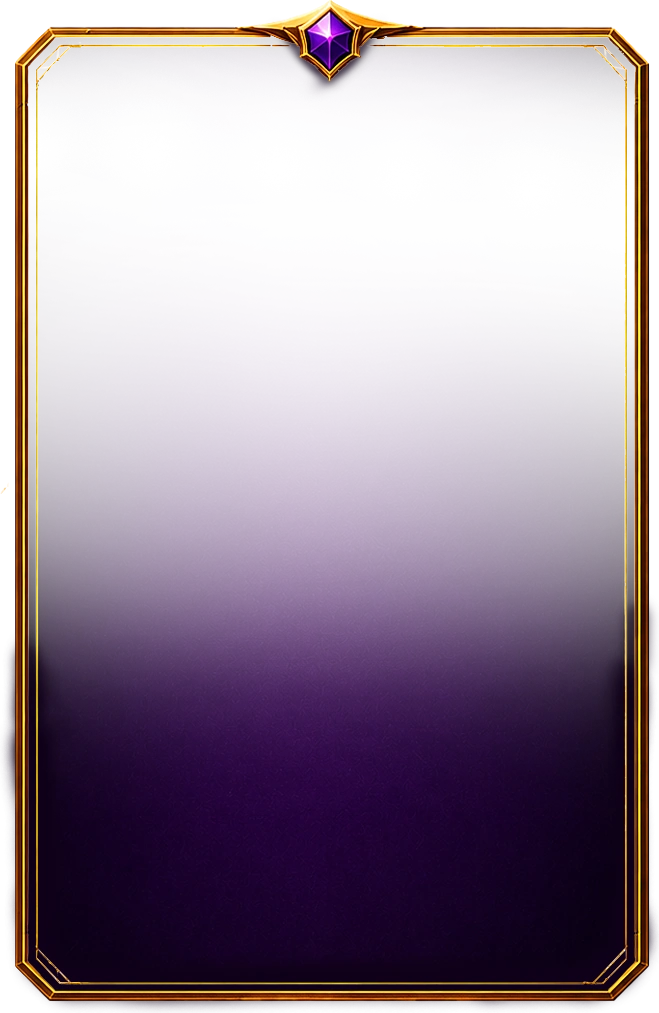
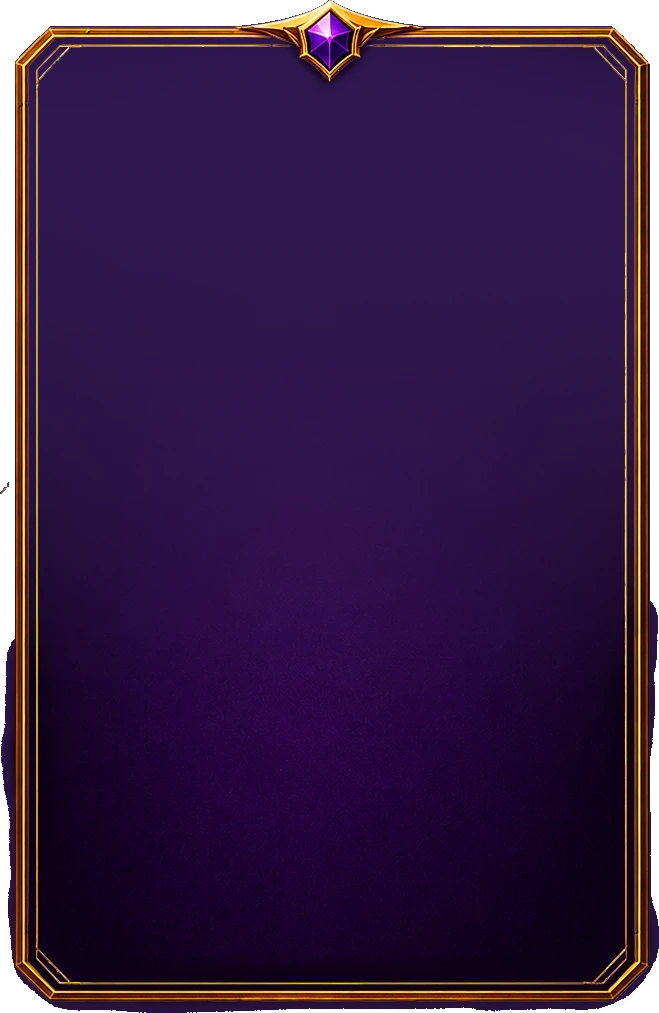
v2.121.1: de foto was weggevallen, de land-pil in neon, en de lege kaart weer gevuld
DE FOTO WAS BIJNA WEG. Ik knipte hem met de lijst-art als masker, en dat masker
gebruikt de ALFA van die art: binnenin is die 2 tot 30, dus de foto werd binnen
de kaart vrijwel volledig doorzichtig. Nu een clip-path met dezelfde afgeschuinde
hoeken; dat doet wat het masker moest doen zonder de foto weg te vegen.

DE LEGE KAART was een omtrek geworden. voorkant-leeg wees naar de nieuwe lijst,
en die is binnenin doorzichtig, dus een kaart zonder foto liet niets zien. Hij is
opnieuw gezet: hetzelfde paarse verloop binnen dezelfde lijst.

DE LAND-PIL is de neonpil van "Verlaat room" geworden, maar dan met de achthoek
en de paarse lijn, boven de kaart en op de voorkant.

En het bijzondere feit staat weer met zijn ZIN onder het label in plaats van
ernaast; alleen de labels van hoofdstad, werelddeel en taal lopen in een kolom.

diff --git a/frontend/src/screens/KaartDetail.tsx b/frontend/src/screens/KaartDetail.tsx
@@ -20,6 +20,7 @@ import { ArrowRight, Building2, Globe, MessageSquare, Share2, Star } from "lucid
 import type { LucideIcon } from "lucide-react";
 import { BredeKnop } from "../components/BredeKnop";
 import { GoudKader } from "../components/GoudKader";
+import { KADER_LIJN_PAARS, NeonKader } from "../components/ProfileHero";
 import { NeonText } from "../components/NeonText";
 import { useT } from "../i18n/i18n";
 import { sound } from "../sound/sound";
@@ -51,7 +52,6 @@ const FOTO = {
 
 /** De achthoek van de secties, als knipvorm. Een categorieplaat is te klein
  *  voor een SVG met eigen verlopen; de vorm alleen is hier genoeg. */
-const ACHTHOEK = "polygon(9px 0, calc(100% - 9px) 0, 100% 9px, 100% calc(100% - 9px), calc(100% - 9px) 100%, 9px 100%, 0 calc(100% - 9px), 0 9px)";
 const ACHTHOEK_KLEIN = "polygon(6px 0, calc(100% - 6px) 0, 100% 6px, 100% calc(100% - 6px), calc(100% - 6px) 100%, 6px 100%, 0 calc(100% - 6px), 0 6px)";
 
 /** De vakjes zijn DEZELFDE SECTIE als onderaan de pagina: GoudKader met zijn
@@ -182,19 +182,26 @@ export function KaartDetail({
     <div style={{ display: "flex", flexDirection: "column", gap: 12 }}>
       {/* ---- de categoriepil ---- */}
       <div style={{ display: "flex", justifyContent: "center" }}>
-        <span
-          style={{
-            display: "inline-flex", alignItems: "center", gap: 7,
-            padding: "6px 18px", clipPath: ACHTHOEK,
-            background: "linear-gradient(180deg, rgba(92,34,138,.9), rgba(52,16,88,.95))",
-            boxShadow: `inset 0 0 0 1.5px ${withAlpha("#E39BFF", 0.6)}`,
-            fontFamily: font.wide, fontSize: 13, letterSpacing: 1.4, color: colors.ink,
-            textTransform: "uppercase",
-          }}
+        {/* Dezelfde neonpil als "Verlaat room", maar dan met de achthoek en de
+            paarse lijn: lijn en licht, met een bijna dekkende vulling zodat de
+            pil los van de achtergrond staat. */}
+        <NeonKader
+          hoek={9} radius={2} dik={0.5} vulling="zwart" animeer
+          lijn={KADER_LIJN_PAARS} gloed={`0 0 12px ${withAlpha(colors.violet, 0.35)}`}
+          binnen={{ padding: 0 }}
         >
-          <Globe size={15} color="#F0B6FF" />
-          {categorieLabel}
-        </span>
+          <span
+            style={{
+              display: "inline-flex", alignItems: "center", justifyContent: "center", gap: 7,
+              padding: "6px 18px",
+              fontFamily: font.wide, fontSize: 13, letterSpacing: 1.4, color: colors.ink,
+              textTransform: "uppercase",
+            }}
+          >
+            <Globe size={15} color="#C9A2FF" />
+            {categorieLabel}
+          </span>
+        </NeonKader>
       </div>
 
       {/* ---- DE KAART, die zichzelf omdraait ---- */}
@@ -223,19 +230,24 @@ export function KaartDetail({
                 style={{ position: "absolute", inset: 0, width: "100%", height: "100%", display: "block" }}
               />
               {/* De categorieplaat: smal, in dezelfde achthoek als de secties. */}
-              <span
-                style={{
-                  position: "absolute", left: "50%", bottom: "16%", transform: "translateX(-50%)",
-                  display: "inline-flex", alignItems: "center", gap: 4,
-                  padding: "3px 10px", clipPath: ACHTHOEK_KLEIN, whiteSpace: "nowrap",
-                  background: "linear-gradient(180deg, rgba(92,34,138,.92), rgba(52,16,88,.95))",
-                  boxShadow: `inset 0 0 0 1px ${withAlpha("#E39BFF", 0.55)}`,
-                  fontFamily: font.wide, fontSize: "clamp(6.5px, 2.2vw, 9.5px)", letterSpacing: ".08em",
-                  color: colors.ink, textTransform: "uppercase",
-                }}
-              >
-                <Globe size={9} color="#F0B6FF" />
-                {categorieLabel}
+              <span style={{ position: "absolute", left: "50%", bottom: "15%", transform: "translateX(-50%)" }}>
+                <NeonKader
+                  hoek={6} radius={2} dik={0.45} vulling="zwart" animeer
+                  lijn={KADER_LIJN_PAARS} gloed={`0 0 9px ${withAlpha(colors.violet, 0.35)}`}
+                  binnen={{ padding: 0 }}
+                >
+                  <span
+                    style={{
+                      display: "inline-flex", alignItems: "center", justifyContent: "center", gap: 4,
+                      padding: "3px 9px", whiteSpace: "nowrap",
+                      fontFamily: font.wide, fontSize: "clamp(6.5px, 2.2vw, 9.5px)", letterSpacing: ".08em",
+                      color: colors.ink, textTransform: "uppercase",
+                    }}
+                  >
+                    <Globe size={9} color="#C9A2FF" />
+                    {categorieLabel}
+                  </span>
+                </NeonKader>
               </span>
             </span>
 
@@ -250,12 +262,17 @@ export function KaartDetail({
               {/* De foto ligt ONDER de lijst en is op de VORM van de kaart
                   geknipt: zo loopt hij helemaal onder de dikke rand door en
                   steekt er nergens een hoekje uit. */}
+              {/* GEKNIPT OP DE VORM, niet gemaskeerd met de art. De lijst
+                  gebruiken als masker leek slim, maar zijn binnenvlak heeft
+                  alfa 2 tot 30: dan wordt de foto binnen de kaart bijna
+                  helemaal doorzichtig en zie je er niets meer van. Een
+                  clip-path met dezelfde afgeschuinde hoeken doet wat de bedoeling
+                  was: de foto loopt tot onder de rand en er steekt niets uit. */}
               <span
                 style={{
-                  position: "absolute", inset: 0, display: "block", overflow: "hidden",
-                  WebkitMaskImage: `url(${ACHTER})`, maskImage: `url(${ACHTER})`,
-                  WebkitMaskSize: "100% 100%", maskSize: "100% 100%",
-                  WebkitMaskRepeat: "no-repeat", maskRepeat: "no-repeat",
+                  position: "absolute", left: "2.5%", right: "2.5%", top: "3.2%", bottom: "1.8%",
+                  display: "block", overflow: "hidden",
+                  clipPath: "polygon(11% 0, 89% 0, 100% 7%, 100% 93%, 89% 100%, 11% 100%, 0 93%, 0 7%)",
                 }}
               >
                 {foto ? (
@@ -343,12 +360,18 @@ export function KaartDetail({
                   ))}
                   {(kaart.facts || {}).weetje && (
                     <GoudKader {...SECTIE} padding="4px 8px">
-                      <div style={{ display: "grid", gridTemplateColumns: `${KOLOM.ico} ${KOLOM.label} 1fr`, gap: KOLOM.gat, alignItems: "start" }}>
-                        <Star size={10} color="#F0B6FF" fill="#F0B6FF" style={{ marginTop: 1 }} />
-                        <span style={{ minWidth: 0, fontFamily: font.ui, fontSize: 8.5, fontWeight: 800, letterSpacing: ".05em", textTransform: "uppercase", color: "#F0B6FF", lineHeight: 1.3 }}>
-                          {t("kdWeetje")}
+                      {/* Het label op de lijn van de andere feiten, maar de ZIN
+                          eronder over de volle breedte: een zin naast een label
+                          in een kolom van honderd pixels wordt een strookje van
+                          vier woorden hoog. */}
+                      <div style={{ display: "flex", flexDirection: "column", gap: 2 }}>
+                        <span style={{ display: "grid", gridTemplateColumns: `${KOLOM.ico} 1fr`, gap: KOLOM.gat, alignItems: "center" }}>
+                          <Star size={10} color="#F0B6FF" fill="#F0B6FF" />
+                          <span style={{ fontFamily: font.ui, fontSize: 8.5, fontWeight: 800, letterSpacing: ".05em", textTransform: "uppercase", color: "#F0B6FF" }}>
+                            {t("kdWeetje")}
+                          </span>
                         </span>
-                        <span style={{ minWidth: 0, fontFamily: font.ui, fontSize: 8.5, lineHeight: 1.3, color: colors.ink }}>
+                        <span style={{ display: "block", fontFamily: font.ui, fontSize: 8.5, lineHeight: 1.32, color: colors.ink }}>
                           {String((kaart.facts || {}).weetje)}
                         </span>
                       </div>

diff --git a/frontend/src/version.ts b/frontend/src/version.ts
@@ -1,2 +1,2 @@
 // Bump per user-facing release. Shown in Settings > About.
-export const APP_VERSION = "2.121.0";
+export const APP_VERSION = "2.121.1";
